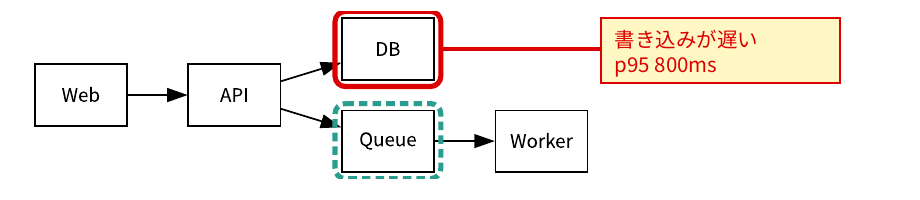
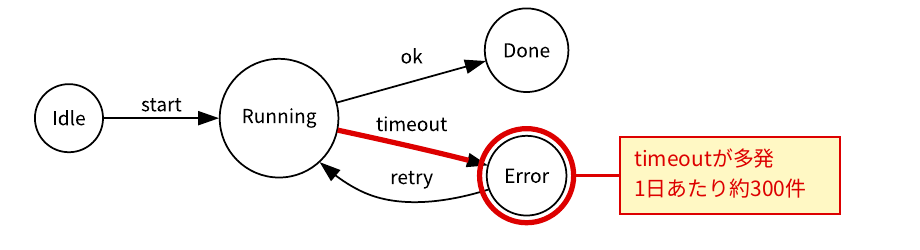
Use a state diagram for the SVG annotation example in the README
Claude-Session: https://claude.ai/code/session_01866MovKykUcV6V8EQP5M6L

diff --git a/README-ja.md b/README-ja.md
@@ -44,30 +44,38 @@ user -> web -> api -> db
 
 ## 図に、SVGで注釈を重ねる
 
-図の上に、SVGの図形や文字を重ねて、注目してほしい所を示せます。`::: layers`の中に、図のフェンスと、注釈の`svg`フェンスを順に書きます。後に書いたものが上になります。
+図の上に、SVGの図形や文字を重ねて、注目してほしい所を示せます。下の例は、状態遷移図の`timeout`の遷移を赤でなぞり、Error状態を囲んでいます。`::: layers`の中に、図のフェンスと、注釈の`svg`フェンスを順に書きます。後に書いたものが上になります。
 
 ````markdown
-::: layers 注文フロー。DBの書き込みが遅く、Queueで非同期化する案
+::: layers ジョブの状態遷移。Errorへのtimeout遷移が多発している
 ```dot
-digraph { rankdir=LR; node [shape=box]; Web -> API -> DB; API -> Queue -> Worker; }
+digraph {
+  rankdir=LR; node [shape=circle];
+  Idle -> Running [label="start"];
+  Running -> Done [label="ok"];
+  Running -> Error [label="timeout"];
+  Error -> Running [label="retry"];
+}
 ```
 
 ```svg
-<svg xmlns="http://www.w3.org/2000/svg" width="480pt" height="98pt" viewBox="0 0 480 98" font-size="12">
-  <rect x="180" y="0" width="62" height="44" rx="6" fill="none" stroke="#d00" stroke-width="3"/>
-  <line x1="242" y1="22" x2="336" y2="22" stroke="#d00" stroke-width="2"/>
-  <rect x="336" y="4" width="140" height="38" fill="#fff8c4" stroke="#d00"/>
-  <text x="344" y="21" fill="#d00">書き込みが遅い</text>
-  <text x="344" y="36" fill="#d00">p95 800ms</text>
-  <rect x="180" y="54" width="62" height="44" rx="6" fill="none" stroke="#2a9d8f" stroke-width="3" stroke-dasharray="5 3"/>
+<svg xmlns="http://www.w3.org/2000/svg" width="470pt" height="132pt" viewBox="0 0 470 132" font-size="12">
+  <g transform="translate(4 122.88)" fill="none" stroke="#d00" stroke-width="3">
+    <path d="M173.79,-49.01C193.14,-44.84 218.12,-39.29 240.2,-33.88 243.02,-33.19 245.94,-32.46 248.86,-31.7"/>
+    <circle cx="282.2" cy="-22.88" r="27"/>
+  </g>
+  <line x1="313" y1="100" x2="340" y2="100" stroke="#d00" stroke-width="2"/>
+  <rect x="340" y="78" width="126" height="44" fill="#fff8c4" stroke="#d00"/>
+  <text x="348" y="95" fill="#d00">timeoutが多発</text>
+  <text x="348" y="112" fill="#d00">1日あたり約300件</text>
 </svg>
 ```
 :::
 ````
 
-![Graphvizの図に、SVGで丸・引き出し線・吹き出しを重ねた例](doc/images/annotated-demo.png)
+![状態遷移図の遷移を赤でなぞり、状態を丸で囲み、吹き出しをつけた例](doc/images/annotated-demo.png)
 
-図を直すと、図は新しく描かれます。注釈は、書いた座標のままなので、ノードが動いたら、注釈の座標も直してください。Graphvizの図の大きさは、ptで決まります。注釈の`svg`にも、`width="480pt"`のように、ptで書くと、位置が合います（単位なしだと、px扱いで、1.33倍ずれます）。
+遷移をなぞる`path`の座標は、Graphvizが出すSVGの値です（上の例は、同じ値に`translate(4 122.88)`を足しています）。図を直して、ノードが動いたら、注釈の座標も直してください。Graphvizの図の大きさは、ptで決まります。注釈の`svg`にも、`width="470pt"`のように、ptで書くと、位置が合います（単位なしだと、px扱いで、1.33倍ずれます）。
 
 ## Obunzu Markdown Viewer
 

diff --git a/README.md b/README.md
@@ -44,30 +44,38 @@ You don't install a tool per diagram, or export images and paste them back in. T
 
 ## Annotate a diagram with SVG
 
-You can lay SVG shapes and text over a diagram to point out what matters. Inside `::: layers`, write the diagram fence and then an annotation `svg` fence. Later items are drawn on top.
+You can lay SVG shapes and text over a diagram to point out what matters. The example below traces the `timeout` transition of a state machine in red and rings the Error state. Inside `::: layers`, write the diagram fence and then an annotation `svg` fence. Later items are drawn on top.
 
 ````markdown
-::: layers Order flow. DB writes are slow; proposal to make them async via a queue
+::: layers Job state machine. Timeouts into Error are frequent
 ```dot
-digraph { rankdir=LR; node [shape=box]; Web -> API -> DB; API -> Queue -> Worker; }
+digraph {
+  rankdir=LR; node [shape=circle];
+  Idle -> Running [label="start"];
+  Running -> Done [label="ok"];
+  Running -> Error [label="timeout"];
+  Error -> Running [label="retry"];
+}
 ```
 
 ```svg
-<svg xmlns="http://www.w3.org/2000/svg" width="480pt" height="98pt" viewBox="0 0 480 98" font-size="12">
-  <rect x="180" y="0" width="62" height="44" rx="6" fill="none" stroke="#d00" stroke-width="3"/>
-  <line x1="242" y1="22" x2="336" y2="22" stroke="#d00" stroke-width="2"/>
-  <rect x="336" y="4" width="140" height="38" fill="#fff8c4" stroke="#d00"/>
-  <text x="344" y="21" fill="#d00">Slow writes</text>
-  <text x="344" y="36" fill="#d00">p95 800ms</text>
-  <rect x="180" y="54" width="62" height="44" rx="6" fill="none" stroke="#2a9d8f" stroke-width="3" stroke-dasharray="5 3"/>
+<svg xmlns="http://www.w3.org/2000/svg" width="470pt" height="132pt" viewBox="0 0 470 132" font-size="12">
+  <g transform="translate(4 122.88)" fill="none" stroke="#d00" stroke-width="3">
+    <path d="M173.79,-49.01C193.14,-44.84 218.12,-39.29 240.2,-33.88 243.02,-33.19 245.94,-32.46 248.86,-31.7"/>
+    <circle cx="282.2" cy="-22.88" r="27"/>
+  </g>
+  <line x1="313" y1="100" x2="340" y2="100" stroke="#d00" stroke-width="2"/>
+  <rect x="340" y="78" width="126" height="44" fill="#fff8c4" stroke="#d00"/>
+  <text x="348" y="95" fill="#d00">Frequent timeouts</text>
+  <text x="348" y="112" fill="#d00">~300 per day</text>
 </svg>
 ```
 :::
 ````
 
-![A Graphviz diagram with an SVG circle, leader line and callout laid over it](doc/images/annotated-demo.png)
+![A state diagram with a transition traced in red, a state circled and a callout attached](doc/images/annotated-demo.png)
 
-The diagram is redrawn when you change it, but the annotation stays at the coordinates you wrote, so update them if nodes move. Graphviz sizes its diagrams in pt, so give the annotation `svg` pt dimensions too (`width="480pt"`); with no unit it is read as px and drifts by a factor of 1.33. (The sample image text is in Japanese.)
+The `path` that traces the transition uses the coordinates in the SVG Graphviz produces (the example adds `translate(4 122.88)` to those values). If you change the diagram and nodes move, update the annotation coordinates. Graphviz sizes its diagrams in pt, so give the annotation `svg` pt dimensions too (`width="470pt"`); with no unit it is read as px and drifts by a factor of 1.33. (The sample image text is in Japanese.)
 
 ## Obunzu Markdown Viewer
 
